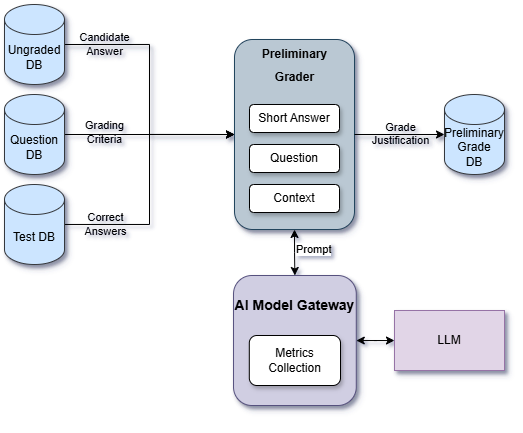
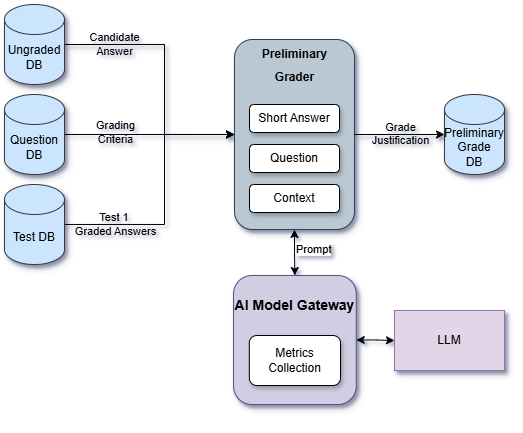
Change correct aswers to graded answers

diff --git a/README.md b/README.md
@@ -128,7 +128,7 @@ The Preliminary Grader service will prompt the AI model through the gateway to g
 
 The service will use Retrieval Augmented Generation to provide additional context to the prompt
 - The original question along with any relevant grading criteria and information
-- Relevant answers to the question that are considered correct, with justifications
+- Graded answers from other candidates, with justifications
 
 Since the questions are known ahead of time, the data being retrieved can be indexed by question ID. This reduces the complexity 
 of finding relevant context
